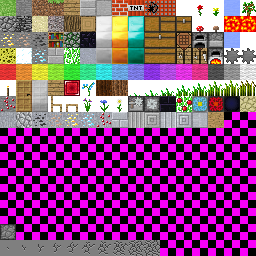
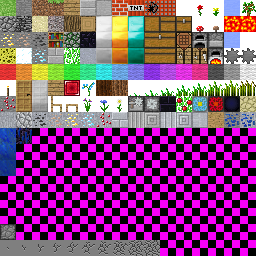
crying obsidian and lapis stuff

Changed region(s): [[0.0, 0.5, 0.125, 0.6875], [0.875, 0.4375, 1.0, 0.5]]

diff --git a/src/game/java/net/minecraft/game/item/ItemPickaxe.java b/src/game/java/net/minecraft/game/item/ItemPickaxe.java
@@ -4,7 +4,7 @@ import net.minecraft.game.level.block.Block;
 import net.minecraft.game.level.material.Material;
 
 public final class ItemPickaxe extends ItemTool {
-	private static Block[] blocksEffectiveAgainst = new Block[]{Block.cobblestone, Block.stairDouble, Block.stairSingle, Block.stone, Block.cobblestoneMossy, Block.oreIron, Block.blockSteel, Block.oreCoal, Block.blockGold, Block.oreGold, Block.oreDiamond, Block.blockDiamond, Block.oreRuby, Block.stonecutter, Block.brickStone, Block.stoneOvenIdle, Block.stoneOvenActive, Block.stoneLite, Block.cobblestoneLite, Block.oreLiteCoal, Block.oreLiteIron, Block.oreLiteGold, Block.oreLiteDiamond, Block.oreLiteRuby};
+	private static Block[] blocksEffectiveAgainst = new Block[]{Block.cobblestone, Block.stairDouble, Block.stairSingle, Block.stone, Block.cobblestoneMossy, Block.oreIron, Block.blockSteel, Block.oreCoal, Block.blockGold, Block.oreGold, Block.oreDiamond, Block.blockDiamond, Block.oreRuby, Block.stonecutter, Block.brickStone, Block.stoneOvenIdle, Block.stoneOvenActive, Block.stoneLite, Block.cobblestoneLite, Block.oreLiteCoal, Block.oreLiteIron, Block.oreLiteGold, Block.oreLiteDiamond, Block.oreLiteRuby, Block.oreLapis, Block.oreLiteLapis, Block.blockLapis, Block.obsidianCrying};
 	private int harvestLevel;
 
 	public ItemPickaxe(int var1, int var2, String var3) {
@@ -13,6 +13,6 @@ public final class ItemPickaxe extends ItemTool {
 	}
 
 	public final boolean canHarvestBlock(Block var1) {
-		return var1 == Block.obsidian ? this.harvestLevel == 3 : (var1 != Block.blockDiamond && var1 != Block.oreDiamond && var1 != Block.oreLiteDiamond && var1 != Block.oreRuby && var1 != Block.oreLiteRuby ? (var1 != Block.blockGold && var1 != Block.oreGold && var1 != Block.oreLiteGold ? (var1 != Block.blockSteel && var1 != Block.oreIron && var1 != Block.oreLiteIron ? (var1.material == Material.rock ? true : var1.material == Material.iron) : this.harvestLevel > 0) : this.harvestLevel >= 2) : this.harvestLevel >= 2);
+		return var1 == Block.obsidian && var1 != Block.obsidianCrying ? this.harvestLevel == 3 : (var1 != Block.blockDiamond && var1 != Block.oreDiamond && var1 != Block.oreLiteDiamond && var1 != Block.oreRuby && var1 != Block.oreLiteRuby ? (var1 != Block.blockGold && var1 != Block.oreGold && var1 != Block.oreLiteGold ? (var1 != Block.blockSteel && var1 != Block.oreIron && var1 != Block.oreLiteIron && var1 != Block.oreLapis && var1 != Block.oreLiteLapis ? (var1.material == Material.rock ? true : var1.material == Material.iron) : this.harvestLevel > 0) : this.harvestLevel >= 2) : this.harvestLevel >= 2);
 	}
 }

diff --git a/src/game/java/net/minecraft/game/level/block/tileentity/TileEntityFurnace.java b/src/game/java/net/minecraft/game/level/block/tileentity/TileEntityFurnace.java
@@ -178,7 +178,7 @@ public final class TileEntityFurnace extends TileEntity implements IInventory {
 	}
 
 	private static int smeltItem(int var0) {
-		return var0 == Block.oreIron.blockID ? Item.ingotIron.shiftedIndex : (var0 == Block.oreGold.blockID ? Item.ingotGold.shiftedIndex : (var0 == Block.oreDiamond.blockID ? Item.diamond.shiftedIndex : (var0 == Block.sand.blockID ? Block.glass.blockID : (var0 == Item.porkRaw.shiftedIndex ? Item.porkCooked.shiftedIndex : (var0 == Block.cobblestone.blockID ? Block.stone.blockID : (var0 == Block.oreRuby.blockID ? Item.ruby.shiftedIndex : (var0 == Item.clay.shiftedIndex ? Item.brick.shiftedIndex : (var0 == Item.monstermeat.shiftedIndex ? Item.monstermeatCooked.shiftedIndex : (var0 == Block.oreLiteIron.blockID ? Item.ingotIron.shiftedIndex : (var0 == Block.oreLiteGold.blockID ? Item.ingotGold.shiftedIndex : -1))))))))));
+		return var0 == Block.oreIron.blockID ? Item.ingotIron.shiftedIndex : (var0 == Block.oreGold.blockID ? Item.ingotGold.shiftedIndex : (var0 == Block.oreDiamond.blockID ? Item.diamond.shiftedIndex : (var0 == Block.sand.blockID ? Block.glass.blockID : (var0 == Item.porkRaw.shiftedIndex ? Item.porkCooked.shiftedIndex : (var0 == Block.cobblestone.blockID ? Block.stone.blockID : (var0 == Block.oreRuby.blockID ? Item.ruby.shiftedIndex : (var0 == Item.clay.shiftedIndex ? Item.brick.shiftedIndex : (var0 == Item.monstermeat.shiftedIndex ? Item.monstermeatCooked.shiftedIndex : (var0 == Block.oreLiteIron.blockID ? Item.ingotIron.shiftedIndex : (var0 == Block.oreLiteGold.blockID ? Item.ingotGold.shiftedIndex : (var0 == Block.oreLapis.blockID ? Item.lapis.shiftedIndex : (var0 == Block.oreLiteLapis.blockID ? Item.lapis.shiftedIndex : -1))))))))))));
 	}
 
 	private static int getItemBurnTime(ItemStack var0) {

diff --git a/src/game/java/net/minecraft/game/level/block/Block.java b/src/game/java/net/minecraft/game/level/block/Block.java
@@ -119,6 +119,10 @@ public class Block {
 	public static final Block pillarStone;
 	public static final Block pillarLitestone;
 	public static final Block woodBlock;
+	public static final Block oreLapis;
+	public static final Block blockLapis;
+	public static final Block oreLiteLapis;
+	public static final Block obsidianCrying;
 	public int blockIndexInTexture;
 	public final int blockID;
 	private float hardness;
@@ -864,6 +868,26 @@ public class Block {
 		var0 = var10000;
 		var0.stepSound = var1;
 		woodBlock = var0;
+		var10000 = (new BlockOre(86, 126, "Lapis Lazuli Ore")).setHardness(3.0F).setResistance(5.0F);
+		var1 = soundStoneFootstep;
+		var0 = var10000;
+		var0.stepSound = var1;
+		oreLapis = var0;
+		var10000 = (new BlockOreBlock(87, 144, "Block of Lapis Lazuli")).setHardness(5.0F).setResistance(10.0F);
+		var1 = soundMetalFootstep;
+		var0 = var10000;
+		var0.stepSound = var1;
+		blockLapis = var0;
+		var10000 = (new BlockOre(88, 127, "Lite Lapis Lazuli Ore")).setHardness(3.0F).setResistance(5.0F);
+		var1 = soundStoneFootstep;
+		var0 = var10000;
+		var0.stepSound = var1;
+		oreLiteLapis = var0;
+		var10000 = (new BlockCryingObsidian(89)).setHardness(3.0F).setResistance(5.0F);
+		var1 = soundStoneFootstep;
+		var0 = var10000;
+		var0.stepSound = var1;
+		obsidianCrying = var0;
 		for (int var2 = 0; var2 < 256; ++var2) {
 			if (blocksList[var2] != null) {
 				Item.itemsList[var2] = new ItemBlock(var2 - 256, blocksList[var2].name);

diff --git a/src/game/java/net/minecraft/game/level/generator/LevelGenerator.java b/src/game/java/net/minecraft/game/level/generator/LevelGenerator.java
@@ -349,6 +349,7 @@ public final class LevelGenerator {
 		int g;
 		int d;
 		int r;
+		int l;
 
 		if (!var9.floatingGen) {
 			c = Block.oreCoal.blockID;
@@ -356,12 +357,14 @@ public final class LevelGenerator {
 			g = Block.oreGold.blockID;
 			d = Block.oreDiamond.blockID;
 			r = Block.oreRuby.blockID;
+			l = Block.oreLapis.blockID;
 		} else {
 			c = Block.oreLiteCoal.blockID;
 			i = Block.oreLiteIron.blockID;
 			g = Block.oreLiteGold.blockID;
 			d = Block.oreLiteDiamond.blockID;
 			r = Block.oreLiteRuby.blockID;
+			l = Block.oreLiteLapis.blockID;
 		}
 
 		var7 = this.populateOre(c, 1000, 10, (var4 << 2) / 5);
@@ -369,8 +372,9 @@ public final class LevelGenerator {
 		var45 = this.populateOre(g, 500, 6, (var4 << 1) / 5);
 		var5 = this.populateOre(d, 800, 2, var4 / 5);
 		int ruby = this.populateOre(r, 500, 2, var4 / 5);
+		int lapis = this.populateOre(l, 800, 2, var4 / 5);
 		System.out
-				.println("Coal: " + var7 + ", Iron: " + var44 + ", Gold: " + var45 + ", Diamond: " + var5 + ", Ruby: " + ruby);
+				.println("Coal: " + var7 + ", Iron: " + var44 + ", Gold: " + var45 + ", Diamond: " + var5 + ", Ruby: " + ruby + ", Lapis" + lapis);
 		this.guiLoading.displayLoadingString("Melting..");
 		this.loadingBar();
 		this.lavaGen();

diff --git a/src/game/java/net/minecraft/game/item/recipe/CraftingManager.java b/src/game/java/net/minecraft/game/item/recipe/CraftingManager.java
@@ -73,7 +73,9 @@ public final class CraftingManager {
 		this.addRecipe(new ItemStack(Block.clothGray, 1), new Object[]{"#X", Character.valueOf('#'), Item.dyeGrey, Character.valueOf('X'), Block.clothWhite});
 		this.addRecipe(new ItemStack(Item.appleGolden), new Object[]{"###", "#X#", "###", Character.valueOf('#'), Block.blockGold, Character.valueOf('X'), Item.apple});
 		this.addRecipe(new ItemStack(Item.appleIron), new Object[]{"###", "#X#", "###", Character.valueOf('#'), Item.ingotIron, Character.valueOf('X'), Item.apple});
-			
+		this.addRecipe(new ItemStack(Block.blockLapis), new Object[]{"###", "###", "###", Character.valueOf('#'), Item.lapis});
+		this.addRecipe(new ItemStack(Block.obsidianCrying), new Object[]{" # ", "#X#", " # ", Character.valueOf('#'), Block.obsidian, Character.valueOf('X'), Item.lapis});
+
 		Collections.sort(this.recipes, new RecipeSorter(this));
 		System.out.println(this.recipes.size() + " recipes");
 	}

diff --git a/src/game/java/net/minecraft/game/level/block/BlockCryingObsidian.java b/src/game/java/net/minecraft/game/level/block/BlockCryingObsidian.java
@@ -1,0 +1,25 @@
+package net.minecraft.game.level.block;
+
+import net.minecraft.game.entity.player.EntityPlayer;
+import net.minecraft.game.level.World;
+import net.minecraft.game.level.material.Material;
+
+public final class BlockCryingObsidian extends Block {
+    protected BlockCryingObsidian(int var1) {
+        super(var1, Material.rock, "Crying Obsidian");
+        this.blockIndexInTexture = 129;
+    }
+
+    public final boolean blockActivated(World world, int x, int y, int z, EntityPlayer player) {
+        world.setSpawnLocation(x, y, z, player.rotationYaw);
+        try {
+            net.minecraft.client.Minecraft mc = net.minecraft.client.Minecraft.getMinecraft();
+            if (mc != null && mc.ingameGUI != null) {
+                mc.ingameGUI.addChatMessage("Spawn point set to: " + x + ", " + y + ", " + z);
+            }
+        } catch (Throwable t) {
+        }
+
+        return true;
+    }
+}

diff --git a/src/game/java/net/minecraft/game/item/Item.java b/src/game/java/net/minecraft/game/item/Item.java
@@ -102,6 +102,7 @@ public class Item {
 	public static Item hoeLitestone;
 	public static Item appleGolden;
 	public static Item appleIron;
+	public static Item lapis;
 	public final int shiftedIndex;
 	protected int maxStackSize = 64;
 	protected int maxDamage = 32;
@@ -636,5 +637,10 @@ public class Item {
 		var5 = var18;
 		var5.iconIndex = var1;
 		appleIron = var5;
+		var20 = new Item(95, "Lapis Lazuli");
+		var1 = 22;
+		var7 = var20;
+		var7.iconIndex = var1;
+		lapis = var7;
 	}
 }
